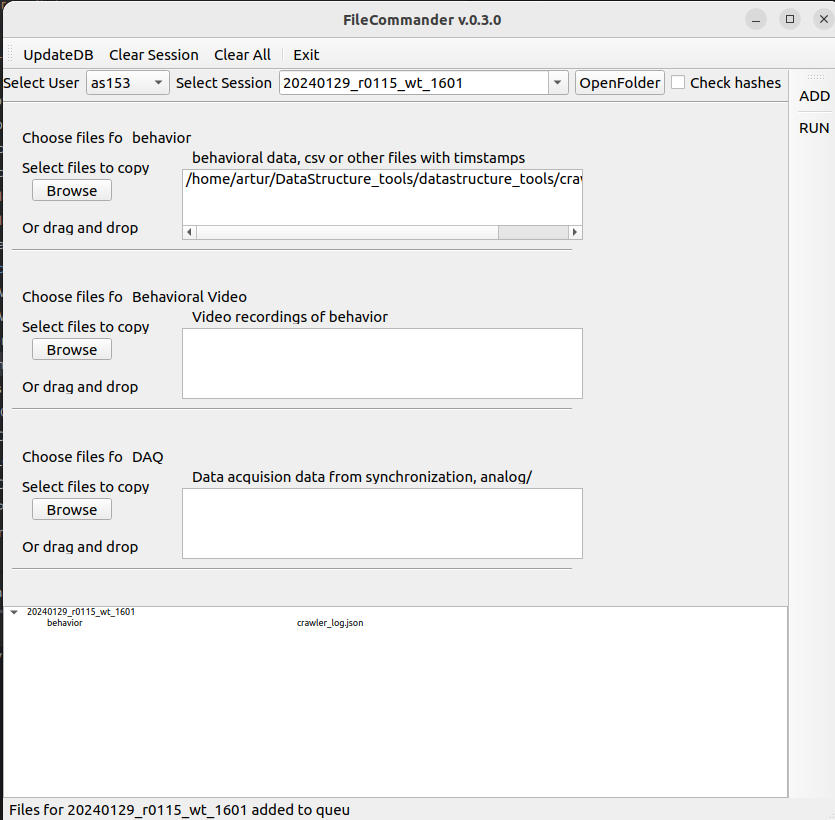
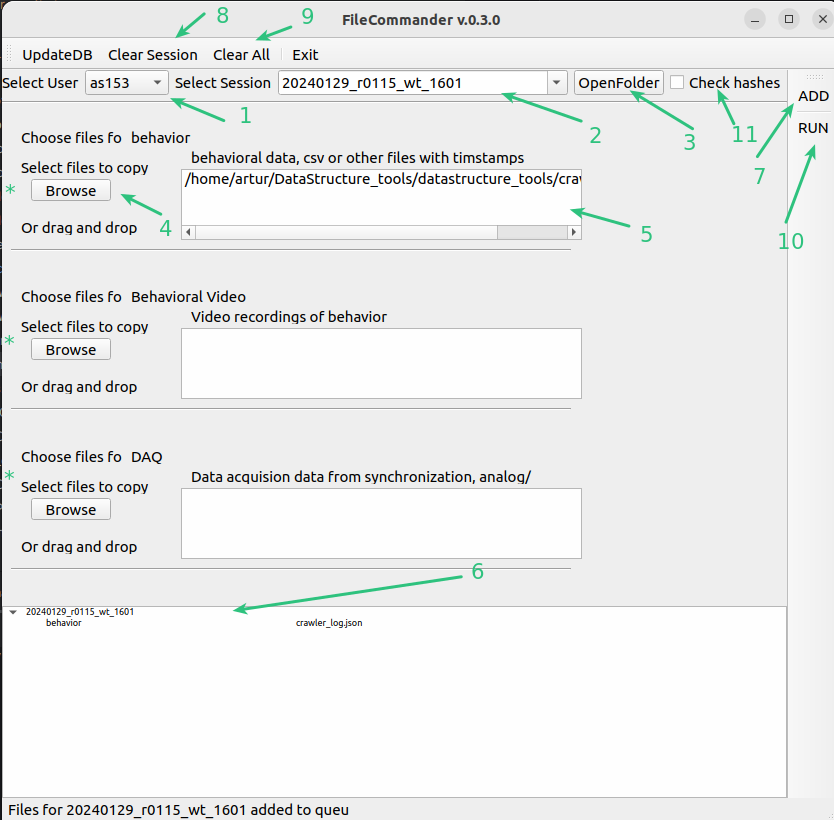
VirusCommander Filecommander

diff --git a/gui_documentation/VirusCommander.md b/gui_documentation/VirusCommander.md
@@ -1,4 +1,92 @@
+# VirusCommander
+Tool for entering new viruses, batches of viruses, opsins, promotors etc. into the Database.
+Having the viruses in the  database and associated with animals via surgey will allow easy search what was done with any
+given virus and with what results.
+
+Entering a virus or virus batch here will automatically push it also to eLabFTW (to be implemented)
+
+## Add a new virus to DB
+A new virus can be added and connected to its properties such as promots, opsin etc.
+Option you need is not available? Add new one as indicated later.
+
+![viruscommander_virus.png](../images/viruscommander_virus.png)
+1. List of viruses already in DB. Please check whether yours is already available (small variations in naming are possible)
+2. Unique full name of the virus. Try to keep the convention similar to already added viruses
+3. Parts of the virus, Opsin if any, Reported protein, Vector , Promotor etc. Whether the expression is dependent 
+on cre presence.
+4. Addgene identifier (optional)
+5. Titer in particles/ml can be entered using 1e12 notation
+6. Virus origin and identified of supplier
+7. Delivery date
+8. Our internal box id where the aliquoted virus is stored.
+9. Add virus
+10. Clear fields
+
+## Add new batch of an existing virus
+Here we can add a newly delivered batch of an already existing virus.
+
+![viruscommander_batch.png](../images/viruscommander_batch.png)
+1. Choose a virus (has to be in DB)
+2. Information about current batch (delivery date)
+3. Enter new delivery date
+4. Titer in particles/ml can be entered using 1e12 notation
+5. Virus origin and identified of supplier
+6. Our internal box id where the aliquoted virus is stored.
+7. Add entry
+
+## Add opsin to DB
+Here new opsins can be entered. Here opsin is loosely defined as the functional payload of the virus and thus incldues 
+Cre or GCaMPs.
+
+![viruscommander_opsin.png](../images/viruscommander_opsin.png)
+1. Already existing opsins
+2. Short unique name
+3. Full name
+4. Description of some details
+5. Please enter functional wavelegths for inhibition, excitation if opsins are modulating neural activity.
+6. DOI of the paper presenting the vector (optional)
+7. Add entry
+
+## Add new promotor 
+Here new expression promotors can be added.
+
+![viruscommander_promotor.png](../images/viruscommander_promotor.png)
+
+1. Already existing expression promotors
+2. Short unique name
+3. Expression pattern (optional)
+4. DOI of the paper presenting the vector (optional)
+5. Button to add
+
+
+## Add new reporter gene
+Here new reported genes (fluorescent proteins) can be entered.
+
+![viruscommander_reporter.png](../images/viruscommander_reporter.png)
+
+1. Already existing reporter genes
+2. Short unique name
+3. Excitation wavelength
+4. Emission wavelength (signal)
+5. Button to add
+6. Clear fields
+
+
+## Add new vector
+Here new vectors (serotypes of viruses or differen virus-types can be entered)
+
+![viruscommander_vector.png](../images/viruscommander_vector.png)
+1. Already existing vectors
+2. Short unique name
+3. A bit more descriptive name
+4. Some description of specific tropism of the virus if any is known. (optional)
+5. Spread pattern of the virus
+6. DOI of the paper presenting the vector (optional)
+7. Button to add
+8. Clear fields
+
+
 ~~~~
-written by: 
-last modified: 2024-01-24
+written by: Artur
+last modified: 2024-01-30
 ~~~~

diff --git a/gui_documentation/FileCommander.md b/gui_documentation/FileCommander.md
@@ -1,5 +1,27 @@
+# FileCommander
+This tool can be used to copy the data into correct file structure according to the datastructure rules.
+
+- [Details about datastructure](../datastructure_documentation/datastructure.md)
+- [how to create BuildingBlocks and ExpTemplates](AdminCommander.md#building-blocks-of-datastructure)
 
 ![filecommander.png](../images/filecommander.png)
+
+1. Select user. Is preselected according to the [saved settings](AdminCommander.md#user-specific-config)
+2. List of session from this user, sorted most recent -first
+3. Press to open the raw folder of this session on the server (Folder were already created at session creation)
+4. Press browse to select files for this types of data modality. The default path which opens for each modality can 
+be set in [AdminCommander](AdminCommander.md#user-specific-config). You can also drag and drop files to window in 5
+5. List of files to be added for this modality and this session
+6. List of files for all session in current Queu
+7. Press add to add currently selected files (from 5) to the to copy Q
+8. To remove all files from Queu and current selection for this session
+9. For all session
+10. This executes the file copying. May take a while, the program may appear to hang. Dont close.
+11. Check whether the program should verify file integrity after copy. More secure but takes longer.
+
+*. Indicates different building block of the exp template of this experiment there may be more or less of those.
+
 ~~~~
-written by: 
-last modified: 2024-01-29
+written by: Artur
+last modified: 2024-01-30
+~~~~

diff --git a/gui_documentation/EquipmentCommander.md b/gui_documentation/EquipmentCommander.md
@@ -10,7 +10,7 @@ The type you want doesnt exist ? create a new one:
 ## Add new Probe Type
 One can create new electrode-type by entering the corresponding values for the electrode arrangengment and nr of shafts 
 etc. One can also upload a ProbeInterface file, a library which allows definition of probe geometries and visualization.
-The Library also enables using th eprobe geometries in the spikesorting.
+The Library also enables using the probe geometries in the spikesorting.
 
 ![equipmentcommander_probetype.png](../images/equipmentcommander_probetype.png)
 ## Add new miniscope

diff --git a/gui_documentation/general.md b/gui_documentation/general.md
@@ -13,6 +13,7 @@ You would like to start ?
 - [AnimalCommander](AnimalCommander.md)
 - [EquipmentCommander](EquipmentCommander.md)
 - [FileCommander](FileCommander.md)
+- [LabbookCommander](LabbookCommander.md)
 - [SessionCommander](SessionCommander.md)
 - [SurgeryCommander](SurgeryCommander.md)
 - [SurgeryPlanner](SurgeryPlanner.md)

diff --git a/datastructure_documentation/datastructure.md b/datastructure_documentation/datastructure.md
@@ -3,6 +3,6 @@ Description of rules hwo data should be organized on the dataserver.
 TOBE written...
 
 ~~~~
-written by: 
+written by: Florian
 last modified: 2024-01-24
 ~~~~

diff --git a/gui_documentation/LabbookCommander.md b/gui_documentation/LabbookCommander.md
@@ -1,0 +1,7 @@
+# LabbookCommander
+is not needed anymore.. maybe will be rewritten for signing entries..
+
+~~~~
+written by: 
+last modified: 2024-01-29
+~~~~
